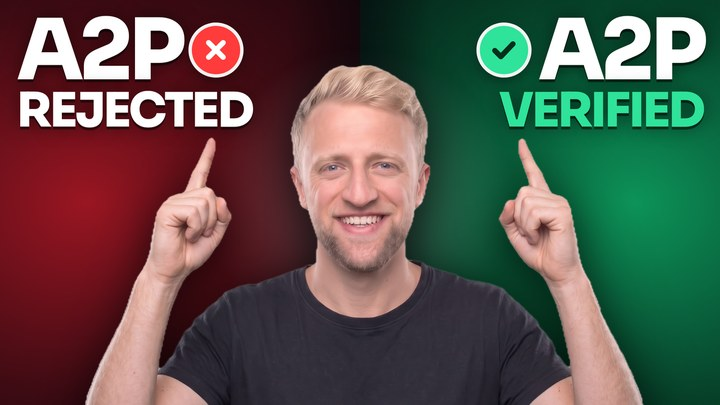
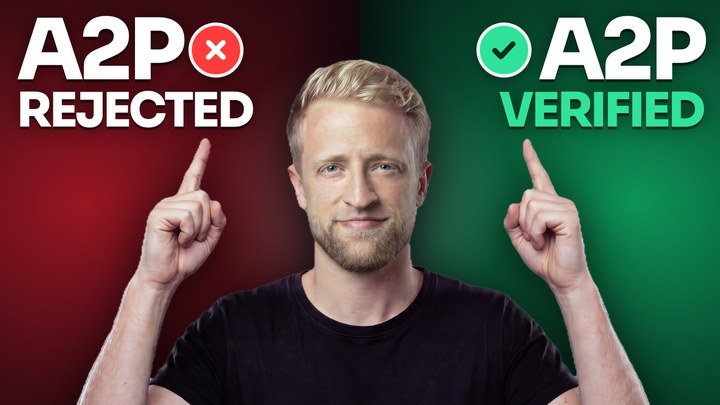
Internal: A2P titles page shows the final title and the final thumbnail (noindex, unlisted)

Changed region(s): [[0.0917, 0.1481, 0.9167, 1.0]]

diff --git a/titles-v3-3dbe7cb5773a/index.html b/titles-v3-3dbe7cb5773a/index.html
@@ -75,8 +75,8 @@ body.plain .yours{display:none}
   .tl{grid-template-columns:minmax(0,1fr)}.tl .th{max-width:240px}
   .bar label{margin-left:0}.ty b{display:block}
 }
-</style></head><body><main><h1>A2P video: your title in today&#x27;s YouTube results</h1><p class="lead">Tap a number to change your title everywhere on this page. The five videos are today&#x27;s top five for the search below, with your chosen thumbnail placed among them.</p><div class="pick"><small>My pick</small><b class="t">The Fastest Way to Get A2P Approved in GoHighLevel (5 Steps, 2027)</b><p>Approved in the title, Verified on your thumbnail: both words are covered. Title 2 is the same title with Verified, so the title test settles it with your own viewers. Titles 1, 2 and 3 are set on the upload page.</p></div><div class="bar" id="feed"><div class="row"><span class="lab">Your title:</span><button type="button" aria-pressed="false" title="The Fastest Way to Get A2P Approved in GoHighLevel (5 Steps, 2027)">1</button><button type="button" aria-pressed="false" title="The Fastest Way to Get A2P Verified in GoHighLevel (5 Steps, 2027)">2</button><button type="button" aria-pressed="false" title="How to Get A2P Approved Fast in GoHighLevel (Copy My 5 AI Prompts)">3</button><button type="button" aria-pressed="false" title="Get A2P Approved Fast in GoHighLevel: My 5-Step Process (2027)">4</button><button type="button" aria-pressed="false" title="The Fast, Compliant Way to Get A2P Approved in GoHighLevel (2027)">5</button><label><input type="checkbox" id="plain"> hide the YOURS marker</label></div><div class="now"><b id="now"></b><span id="nowc"></span></div></div><h2>Search on a computer</h2><p class="lead">YouTube's own order for this search on Wed Nov 25, 2026. Your video sits in slot 3 so you can compare; where a new video really lands is not known before it is live.</p><div class="desk"><div class="sbox">gohighlevel a2p</div><a class="dr" href="https://www.youtube.com/watch?v=dmb89I7Ulmg" target="_blank" rel="noopener"><span class="th"><img src="r-dmb89I7Ulmg.jpg" alt="" loading="lazy"><i>8:35</i></span><div class="tx"><p class="ti clamp">GoHighLevel A2P REJECTED? Fix It in 8 Minutes (2026 Guide)</p><p class="me">320 views · 3 months ago</p><div class="ch"><span class="av">T</span>Tristan Gosset · 3.5K subscribers</div></div></a><a class="dr" href="https://www.youtube.com/watch?v=CPn8ba43je0" target="_blank" rel="noopener"><span class="th"><img src="r-CPn8ba43je0.jpg" alt="" loading="lazy"><i>25:38</i></span><div class="tx"><p class="ti clamp">The New Fastest Way to Get A2P Verified in GoHighLevel</p><p class="me">15K views · 4 months ago</p><div class="ch"><span class="av">G</span>GHL Wizard · 45K subscribers</div></div></a><div class="dr ours"><span class="th"><img src="yours.jpg" alt="" loading="lazy"><i>24:29</i></span><div class="tx"><span class="yours">YOURS</span><br><p class="ti clamp" data-ours></p><p class="me">No views · just now</p><div class="ch"><span class="av">J</span>Jonny the Nomad</div><span class="new">New</span></div></div><a class="dr" href="https://www.youtube.com/watch?v=vTzsudWWJDI" target="_blank" rel="noopener"><span class="th"><img src="r-vTzsudWWJDI.jpg" alt="" loading="lazy"><i>10:17</i></span><div class="tx"><p class="ti clamp">A2P 10DLC Compliance Tutorial: Complete GoHighLevel Setup Guide 2025</p><p class="me">19K views · 1 year ago</p><div class="ch"><span class="av">I</span>ItsKeaton · 86.4K subscribers</div></div></a><a class="dr" href="https://www.youtube.com/watch?v=fuhyMO7ZKR4" target="_blank" rel="noopener"><span class="th"><img src="r-fuhyMO7ZKR4.jpg" alt="" loading="lazy"><i>37:29</i></span><div class="tx"><p class="ti clamp">How to Get A2P 10DLC Approved the First Time (GoHighLevel)</p><p class="me">11K views · 9 months ago</p><div class="ch"><span class="av">N</span>Nuno Tavares · 117K subscribers</div></div></a><a class="dr" href="https://www.youtube.com/watch?v=deakYlGRWnc" target="_blank" rel="noopener"><span class="th"><img src="r-deakYlGRWnc.jpg" alt="" loading="lazy"><i>4:45</i></span><div class="tx"><p class="ti clamp">A2P REJECTED in GoHighLevel? Do This (Step-by-Step Guide)</p><p class="me">3.4K views · 11 months ago</p><div class="ch"><span class="av">T</span>Tristan Gosset · 3.5K subscribers</div></div></a></div><h2>Search on a phone, and the up next list</h2><p class="lead">The phone shows two lines of a title. The up next list beside a video is the smallest place a title has to work.</p><div class="two"><div class="phone"><div class="sbox">gohighlevel a2p</div><a class="pr" href="https://www.youtube.com/watch?v=dmb89I7Ulmg" target="_blank" rel="noopener"><span class="th"><img src="r-dmb89I7Ulmg.jpg" alt="" loading="lazy"><i>8:35</i></span><div class="tx"><span class="av">T</span><div><p class="ti clamp">GoHighLevel A2P REJECTED? Fix It in 8 Minutes (2026 Guide)</p><p class="me">Tristan Gosset · 320 views · 3 months ago</p></div></div></a><a class="pr" href="https://www.youtube.com/watch?v=CPn8ba43je0" target="_blank" rel="noopener"><span class="th"><img src="r-CPn8ba43je0.jpg" alt="" loading="lazy"><i>25:38</i></span><div class="tx"><span class="av">G</span><div><p class="ti clamp">The New Fastest Way to Get A2P Verified in GoHighLevel</p><p class="me">GHL Wizard · 15K views · 4 months ago</p></div></div></a><div class="pr ours"><span class="th"><img src="yours.jpg" alt="" loading="lazy"><i>24:29</i></span><div class="tx"><span class="av">J</span><div><span class="yours">YOURS</span><br><p class="ti clamp" data-ours></p><p class="me">Jonny the Nomad · No views · just now</p></div></div></div><a class="pr" href="https://www.youtube.com/watch?v=vTzsudWWJDI" target="_blank" rel="noopener"><span class="th"><img src="r-vTzsudWWJDI.jpg" alt="" loading="lazy"><i>10:17</i></span><div class="tx"><span class="av">I</span><div><p class="ti clamp">A2P 10DLC Compliance Tutorial: Complete GoHighLevel Setup Guide 2025</p><p class="me">ItsKeaton · 19K views · 1 year ago</p></div></div></a></div><div class="side"><a class="sr" href="https://www.youtube.com/watch?v=dmb89I7Ulmg" target="_blank" rel="noopener"><span class="th"><img src="r-dmb89I7Ulmg.jpg" alt="" loading="lazy"><i>8:35</i></span><div><p class="ti clamp">GoHighLevel A2P REJECTED? Fix It in 8 Minutes (2026 Guide)</p><p class="me">Tristan Gosset<br>320 views · 3 months ago</p></div></a><a class="sr" href="https://www.youtube.com/watch?v=CPn8ba43je0" target="_blank" rel="noopener"><span class="th"><img src="r-CPn8ba43je0.jpg" alt="" loading="lazy"><i>25:38</i></span><div><p class="ti clamp">The New Fastest Way to Get A2P Verified in GoHighLevel</p><p class="me">GHL Wizard<br>15K views · 4 months ago</p></div></a><div class="sr ours"><span class="th"><img src="yours.jpg" alt="" loading="lazy"><i>24:29</i></span><div><span class="yours">YOURS</span><br><p class="ti clamp" data-ours></p><p class="me">Jonny the Nomad<br>No views · just now</p></div></div><a class="sr" href="https://www.youtube.com/watch?v=vTzsudWWJDI" target="_blank" rel="noopener"><span class="th"><img src="r-vTzsudWWJDI.jpg" alt="" loading="lazy"><i>10:17</i></span><div><p class="ti clamp">A2P 10DLC Compliance Tutorial: Complete GoHighLevel Setup Guide 2025</p><p class="me">ItsKeaton<br>19K views · 1 year ago</p></div></a><a class="sr" href="https://www.youtube.com/watch?v=fuhyMO7ZKR4" target="_blank" rel="noopener"><span class="th"><img src="r-fuhyMO7ZKR4.jpg" alt="" loading="lazy"><i>37:29</i></span><div><p class="ti clamp">How to Get A2P 10DLC Approved the First Time (GoHighLevel)</p><p class="me">Nuno Tavares<br>11K views · 9 months ago</p></div></a><a class="sr" href="https://www.youtube.com/watch?v=deakYlGRWnc" target="_blank" rel="noopener"><span class="th"><img src="r-deakYlGRWnc.jpg" alt="" loading="lazy"><i>4:45</i></span><div><p class="ti clamp">A2P REJECTED in GoHighLevel? Do This (Step-by-Step Guide)</p><p class="me">Tristan Gosset<br>3.4K views · 11 months ago</p></div></a></div></div><h2>The titles</h2><p class="lead">Studio's title test takes up to three and picks the winner by watch time. Copy from here.</p><div class="tl"><span class="th"><img src="yours.jpg" alt="" loading="lazy"><i>24:29</i></span><div><span class="tag p">My pick</span><span class="c">66 characters</span><p class="ti"><span class="n">1.</span>The Fastest Way to Get A2P Approved in GoHighLevel (5 Steps, 2027)</p><p>Your wording and your word. Approved is how people say it and the word in HighLevel&#x27;s own video title. It also makes yours read less like a copy of the video above, which says Verified. That video does the same mix the other way round: Verified in the title, Approved on the thumbnail.</p><p class="risk"><b>Risk:</b> YouTube&#x27;s suggestions list verified a little more often than approved next to GoHighLevel. Fastest is a claim nobody can prove.</p><button type="button" class="btn" data-copy="0">Copy title 1</button><button type="button" class="btn g" data-show="0">See it in the results</button></div></div><div class="tl"><span class="th"><img src="yours.jpg" alt="" loading="lazy"><i>24:29</i></span><div><span class="tag">In the test</span><span class="c">66 characters</span><p class="ti"><span class="n">2.</span>The Fastest Way to Get A2P Verified in GoHighLevel (5 Steps, 2027)</p><p>The same title with one word changed. The test answers verified against approved with your own viewers.</p><p class="risk"><b>Risk:</b> Almost identical to the video right above yours.</p><button type="button" class="btn" data-copy="1">Copy title 2</button><button type="button" class="btn g" data-show="1">See it in the results</button></div></div><div class="tl"><span class="th"><img src="yours.jpg" alt="" loading="lazy"><i>24:29</i></span><div><span class="tag">In the test</span><span class="c">66 characters</span><p class="ti"><span class="n">3.</span>How to Get A2P Approved Fast in GoHighLevel (Copy My 5 AI Prompts)</p><p>Fast plus the one thing only your video has: prompts to copy. Opens with words people type (how to get A2P approved).</p><p class="risk"><b>Risk:</b> Nobody searches AI for A2P, so the bracket is a reason to click, not a way to be found. No year.</p><button type="button" class="btn" data-copy="2">Copy title 3</button><button type="button" class="btn g" data-show="2">See it in the results</button></div></div><div class="tl"><span class="th"><img src="yours.jpg" alt="" loading="lazy"><i>24:29</i></span><div><span class="tag">Backup</span><span class="c">62 characters</span><p class="ti"><span class="n">4.</span>Get A2P Approved Fast in GoHighLevel: My 5-Step Process (2027)</p><p>Fast, your five-step process and the year, with an opening no other video in the top five uses. No claim to be the fastest of all.</p><p class="risk"><b>Risk:</b> Unproven wording. It gives up the phrase that is already winning.</p><button type="button" class="btn" data-copy="3">Copy title 4</button><button type="button" class="btn g" data-show="3">See it in the results</button></div></div><div class="tl"><span class="th"><img src="yours.jpg" alt="" loading="lazy"><i>24:29</i></span><div><span class="tag">Backup</span><span class="c">65 characters</span><p class="ti"><span class="n">5.</span>The Fast, Compliant Way to Get A2P Approved in GoHighLevel (2027)</p><p>Your fast and compliant idea. It answers the skip A2P videos that sell a workaround.</p><p class="risk"><b>Risk:</b> Compliant is not a word people type or click on. It reads like a legal notice.</p><button type="button" class="btn" data-copy="4">Copy title 5</button><button type="button" class="btn g" data-show="4">See it in the results</button></div></div><h2>What people type into YouTube</h2><p class="lead">YouTube&#x27;s own search suggestions, pulled today. Both words are searched: verified and verification show up a little more often next to GoHighLevel, approved and approval show up too. In today&#x27;s results the two are level (10 titles with verified, median 2,972 views; 11 with approved, median 1,787; too few to call). A year shows up in four of the lists, AI in none. These are not search volume numbers: that is the one thing the paid tool vidIQ would add.</p><div class="ty"><div><b>gohighlevel a2p</b> <span>verification, registration, 10dlc, 2026</span></div><div><b>how to get a2p</b> <span>verified on ghl, verified on ghl 2026, approved, verified on twilio</span></div><div><b>a2p verif</b> <span>verification, verification gohighlevel, verification ghl, verification gohighlevel 2026, verification twilio</span></div><div><b>a2p approv</b> <span>approval, approval go high level, approval xleads, ghl a2p approval</span></div><div><b>ghl a2p</b> <span>registration, verification, setup, 2026, approval, chat widget</span></div><div><b>gohighlevel a2p ai</b> <span>no suggestions</span></div></div><p class="foot">Pulled Wed Nov 25, 2026 from a signed-out search. Your own results can differ by watch history and country. Views and channel sizes are from the same pull. Views are not click rate, and a big channel lifts any title.</p><script>
-const T=["The Fastest Way to Get A2P Approved in GoHighLevel (5 Steps, 2027)", "The Fastest Way to Get A2P Verified in GoHighLevel (5 Steps, 2027)", "How to Get A2P Approved Fast in GoHighLevel (Copy My 5 AI Prompts)", "Get A2P Approved Fast in GoHighLevel: My 5-Step Process (2027)", "The Fast, Compliant Way to Get A2P Approved in GoHighLevel (2027)"];let cur=0;
+</style></head><body><main><h1>A2P video: your title in today&#x27;s YouTube results</h1><p class="lead">Tap a number to change your title everywhere on this page. The five videos are today&#x27;s top five for the search below, with your chosen thumbnail placed among them.</p><div class="pick"><small>Your pick</small><b class="t">The Fastest Way to Get A2P Approved in GoHighLevel (My 5 Steps)</b><p>Decided Wed Nov 25: fastest, Approved, my 5 steps, no year. Title 2 is the same title with Verified and title 3 leads with the AI prompts; all three are on the upload page for Studio&#x27;s title test. The year goes in when it is 2027 and the video is still current.</p></div><div class="bar" id="feed"><div class="row"><span class="lab">Your title:</span><button type="button" aria-pressed="false" title="The Fastest Way to Get A2P Approved in GoHighLevel (My 5 Steps)">1</button><button type="button" aria-pressed="false" title="The Fastest Way to Get A2P Verified in GoHighLevel (My 5 Steps)">2</button><button type="button" aria-pressed="false" title="How to Get A2P Approved Fast in GoHighLevel (Copy My 5 AI Prompts)">3</button><button type="button" aria-pressed="false" title="Get A2P Approved Fast in GoHighLevel: My 5-Step Process">4</button><button type="button" aria-pressed="false" title="The Fast, Compliant Way to Get A2P Approved in GoHighLevel">5</button><label><input type="checkbox" id="plain"> hide the YOURS marker</label></div><div class="now"><b id="now"></b><span id="nowc"></span></div></div><h2>Search on a computer</h2><p class="lead">YouTube's own order for this search on Wed Nov 25, 2026. Your video sits in slot 3 so you can compare; where a new video really lands is not known before it is live.</p><div class="desk"><div class="sbox">gohighlevel a2p</div><a class="dr" href="https://www.youtube.com/watch?v=dmb89I7Ulmg" target="_blank" rel="noopener"><span class="th"><img src="r-dmb89I7Ulmg.jpg" alt="" loading="lazy"><i>8:35</i></span><div class="tx"><p class="ti clamp">GoHighLevel A2P REJECTED? Fix It in 8 Minutes (2026 Guide)</p><p class="me">320 views · 3 months ago</p><div class="ch"><span class="av">T</span>Tristan Gosset · 3.5K subscribers</div></div></a><a class="dr" href="https://www.youtube.com/watch?v=CPn8ba43je0" target="_blank" rel="noopener"><span class="th"><img src="r-CPn8ba43je0.jpg" alt="" loading="lazy"><i>25:38</i></span><div class="tx"><p class="ti clamp">The New Fastest Way to Get A2P Verified in GoHighLevel</p><p class="me">15K views · 4 months ago</p><div class="ch"><span class="av">G</span>GHL Wizard · 45K subscribers</div></div></a><div class="dr ours"><span class="th"><img src="yours.jpg" alt="" loading="lazy"><i>24:29</i></span><div class="tx"><span class="yours">YOURS</span><br><p class="ti clamp" data-ours></p><p class="me">No views · just now</p><div class="ch"><span class="av">J</span>Jonny the Nomad</div><span class="new">New</span></div></div><a class="dr" href="https://www.youtube.com/watch?v=vTzsudWWJDI" target="_blank" rel="noopener"><span class="th"><img src="r-vTzsudWWJDI.jpg" alt="" loading="lazy"><i>10:17</i></span><div class="tx"><p class="ti clamp">A2P 10DLC Compliance Tutorial: Complete GoHighLevel Setup Guide 2025</p><p class="me">19K views · 1 year ago</p><div class="ch"><span class="av">I</span>ItsKeaton · 86.4K subscribers</div></div></a><a class="dr" href="https://www.youtube.com/watch?v=fuhyMO7ZKR4" target="_blank" rel="noopener"><span class="th"><img src="r-fuhyMO7ZKR4.jpg" alt="" loading="lazy"><i>37:29</i></span><div class="tx"><p class="ti clamp">How to Get A2P 10DLC Approved the First Time (GoHighLevel)</p><p class="me">11K views · 9 months ago</p><div class="ch"><span class="av">N</span>Nuno Tavares · 117K subscribers</div></div></a><a class="dr" href="https://www.youtube.com/watch?v=deakYlGRWnc" target="_blank" rel="noopener"><span class="th"><img src="r-deakYlGRWnc.jpg" alt="" loading="lazy"><i>4:45</i></span><div class="tx"><p class="ti clamp">A2P REJECTED in GoHighLevel? Do This (Step-by-Step Guide)</p><p class="me">3.4K views · 11 months ago</p><div class="ch"><span class="av">T</span>Tristan Gosset · 3.5K subscribers</div></div></a></div><h2>Search on a phone, and the up next list</h2><p class="lead">The phone shows two lines of a title. The up next list beside a video is the smallest place a title has to work.</p><div class="two"><div class="phone"><div class="sbox">gohighlevel a2p</div><a class="pr" href="https://www.youtube.com/watch?v=dmb89I7Ulmg" target="_blank" rel="noopener"><span class="th"><img src="r-dmb89I7Ulmg.jpg" alt="" loading="lazy"><i>8:35</i></span><div class="tx"><span class="av">T</span><div><p class="ti clamp">GoHighLevel A2P REJECTED? Fix It in 8 Minutes (2026 Guide)</p><p class="me">Tristan Gosset · 320 views · 3 months ago</p></div></div></a><a class="pr" href="https://www.youtube.com/watch?v=CPn8ba43je0" target="_blank" rel="noopener"><span class="th"><img src="r-CPn8ba43je0.jpg" alt="" loading="lazy"><i>25:38</i></span><div class="tx"><span class="av">G</span><div><p class="ti clamp">The New Fastest Way to Get A2P Verified in GoHighLevel</p><p class="me">GHL Wizard · 15K views · 4 months ago</p></div></div></a><div class="pr ours"><span class="th"><img src="yours.jpg" alt="" loading="lazy"><i>24:29</i></span><div class="tx"><span class="av">J</span><div><span class="yours">YOURS</span><br><p class="ti clamp" data-ours></p><p class="me">Jonny the Nomad · No views · just now</p></div></div></div><a class="pr" href="https://www.youtube.com/watch?v=vTzsudWWJDI" target="_blank" rel="noopener"><span class="th"><img src="r-vTzsudWWJDI.jpg" alt="" loading="lazy"><i>10:17</i></span><div class="tx"><span class="av">I</span><div><p class="ti clamp">A2P 10DLC Compliance Tutorial: Complete GoHighLevel Setup Guide 2025</p><p class="me">ItsKeaton · 19K views · 1 year ago</p></div></div></a></div><div class="side"><a class="sr" href="https://www.youtube.com/watch?v=dmb89I7Ulmg" target="_blank" rel="noopener"><span class="th"><img src="r-dmb89I7Ulmg.jpg" alt="" loading="lazy"><i>8:35</i></span><div><p class="ti clamp">GoHighLevel A2P REJECTED? Fix It in 8 Minutes (2026 Guide)</p><p class="me">Tristan Gosset<br>320 views · 3 months ago</p></div></a><a class="sr" href="https://www.youtube.com/watch?v=CPn8ba43je0" target="_blank" rel="noopener"><span class="th"><img src="r-CPn8ba43je0.jpg" alt="" loading="lazy"><i>25:38</i></span><div><p class="ti clamp">The New Fastest Way to Get A2P Verified in GoHighLevel</p><p class="me">GHL Wizard<br>15K views · 4 months ago</p></div></a><div class="sr ours"><span class="th"><img src="yours.jpg" alt="" loading="lazy"><i>24:29</i></span><div><span class="yours">YOURS</span><br><p class="ti clamp" data-ours></p><p class="me">Jonny the Nomad<br>No views · just now</p></div></div><a class="sr" href="https://www.youtube.com/watch?v=vTzsudWWJDI" target="_blank" rel="noopener"><span class="th"><img src="r-vTzsudWWJDI.jpg" alt="" loading="lazy"><i>10:17</i></span><div><p class="ti clamp">A2P 10DLC Compliance Tutorial: Complete GoHighLevel Setup Guide 2025</p><p class="me">ItsKeaton<br>19K views · 1 year ago</p></div></a><a class="sr" href="https://www.youtube.com/watch?v=fuhyMO7ZKR4" target="_blank" rel="noopener"><span class="th"><img src="r-fuhyMO7ZKR4.jpg" alt="" loading="lazy"><i>37:29</i></span><div><p class="ti clamp">How to Get A2P 10DLC Approved the First Time (GoHighLevel)</p><p class="me">Nuno Tavares<br>11K views · 9 months ago</p></div></a><a class="sr" href="https://www.youtube.com/watch?v=deakYlGRWnc" target="_blank" rel="noopener"><span class="th"><img src="r-deakYlGRWnc.jpg" alt="" loading="lazy"><i>4:45</i></span><div><p class="ti clamp">A2P REJECTED in GoHighLevel? Do This (Step-by-Step Guide)</p><p class="me">Tristan Gosset<br>3.4K views · 11 months ago</p></div></a></div></div><h2>The titles</h2><p class="lead">Studio's title test takes up to three and picks the winner by watch time. Copy from here.</p><div class="tl"><span class="th"><img src="yours.jpg" alt="" loading="lazy"><i>24:29</i></span><div><span class="tag p">Your pick</span><span class="c">63 characters</span><p class="ti"><span class="n">1.</span>The Fastest Way to Get A2P Approved in GoHighLevel (My 5 Steps)</p><p>Your wording and your word. Approved is how people say it and the word in HighLevel&#x27;s own video title. It also makes yours read less like a copy of the video above, which says Verified. No year: it is added in January if the video is still current.</p><p class="risk"><b>Risk:</b> One slot from a very similar title on a bigger channel. Fastest is a claim nobody can prove; the description says review times vary.</p><button type="button" class="btn" data-copy="0">Copy title 1</button><button type="button" class="btn g" data-show="0">See it in the results</button></div></div><div class="tl"><span class="th"><img src="yours.jpg" alt="" loading="lazy"><i>24:29</i></span><div><span class="tag">In the test</span><span class="c">63 characters</span><p class="ti"><span class="n">2.</span>The Fastest Way to Get A2P Verified in GoHighLevel (My 5 Steps)</p><p>The same title with one word changed. The test answers verified against approved with your own viewers.</p><p class="risk"><b>Risk:</b> Almost identical to the video right above yours.</p><button type="button" class="btn" data-copy="1">Copy title 2</button><button type="button" class="btn g" data-show="1">See it in the results</button></div></div><div class="tl"><span class="th"><img src="yours.jpg" alt="" loading="lazy"><i>24:29</i></span><div><span class="tag">In the test</span><span class="c">66 characters</span><p class="ti"><span class="n">3.</span>How to Get A2P Approved Fast in GoHighLevel (Copy My 5 AI Prompts)</p><p>Fast plus the one thing only your video has: prompts to copy. Opens with words people type (how to get A2P approved).</p><p class="risk"><b>Risk:</b> Nobody searches AI for A2P, so the bracket is a reason to click, not a way to be found. No year.</p><button type="button" class="btn" data-copy="2">Copy title 3</button><button type="button" class="btn g" data-show="2">See it in the results</button></div></div><div class="tl"><span class="th"><img src="yours.jpg" alt="" loading="lazy"><i>24:29</i></span><div><span class="tag">Backup</span><span class="c">55 characters</span><p class="ti"><span class="n">4.</span>Get A2P Approved Fast in GoHighLevel: My 5-Step Process</p><p>Fast and your five-step process, with an opening no other video in the top five uses. No claim to be the fastest of all.</p><p class="risk"><b>Risk:</b> Unproven wording. It gives up the phrase that is already winning.</p><button type="button" class="btn" data-copy="3">Copy title 4</button><button type="button" class="btn g" data-show="3">See it in the results</button></div></div><div class="tl"><span class="th"><img src="yours.jpg" alt="" loading="lazy"><i>24:29</i></span><div><span class="tag">Backup</span><span class="c">58 characters</span><p class="ti"><span class="n">5.</span>The Fast, Compliant Way to Get A2P Approved in GoHighLevel</p><p>Your fast and compliant idea. It answers the skip A2P videos that sell a workaround.</p><p class="risk"><b>Risk:</b> Compliant is not a word people type or click on. It reads like a legal notice.</p><button type="button" class="btn" data-copy="4">Copy title 5</button><button type="button" class="btn g" data-show="4">See it in the results</button></div></div><h2>What people type into YouTube</h2><p class="lead">YouTube&#x27;s own search suggestions, pulled today. Both words are searched: verified and verification show up a little more often next to GoHighLevel, approved and approval show up too. In today&#x27;s results the two are level (10 titles with verified, median 2,972 views; 11 with approved, median 1,787; too few to call). A year shows up in four of the lists, AI in none. These are not search volume numbers: that is the one thing the paid tool vidIQ would add.</p><div class="ty"><div><b>gohighlevel a2p</b> <span>verification, registration, 10dlc, 2026</span></div><div><b>how to get a2p</b> <span>verified on ghl, verified on ghl 2026, approved, verified on twilio</span></div><div><b>a2p verif</b> <span>verification, verification gohighlevel, verification ghl, verification gohighlevel 2026, verification twilio</span></div><div><b>a2p approv</b> <span>approval, approval go high level, approval xleads, ghl a2p approval</span></div><div><b>ghl a2p</b> <span>registration, verification, setup, 2026, approval, chat widget</span></div><div><b>gohighlevel a2p ai</b> <span>no suggestions</span></div></div><p class="foot">Pulled Wed Nov 25, 2026 from a signed-out search. Your own results can differ by watch history and country. Views and channel sizes are from the same pull. Views are not click rate, and a big channel lifts any title.</p><script>
+const T=["The Fastest Way to Get A2P Approved in GoHighLevel (My 5 Steps)", "The Fastest Way to Get A2P Verified in GoHighLevel (My 5 Steps)", "How to Get A2P Approved Fast in GoHighLevel (Copy My 5 AI Prompts)", "Get A2P Approved Fast in GoHighLevel: My 5-Step Process", "The Fast, Compliant Way to Get A2P Approved in GoHighLevel"];let cur=0;
 function setT(i){cur=i;document.querySelectorAll('[data-ours]').forEach(n=>n.textContent=T[i]);
 document.querySelectorAll('.bar button').forEach((b,j)=>b.setAttribute('aria-pressed',j===i?'true':'false'));
 document.getElementById('now').textContent=T[i];document.getElementById('nowc').textContent=' ('+T[i].length+' characters)';}
